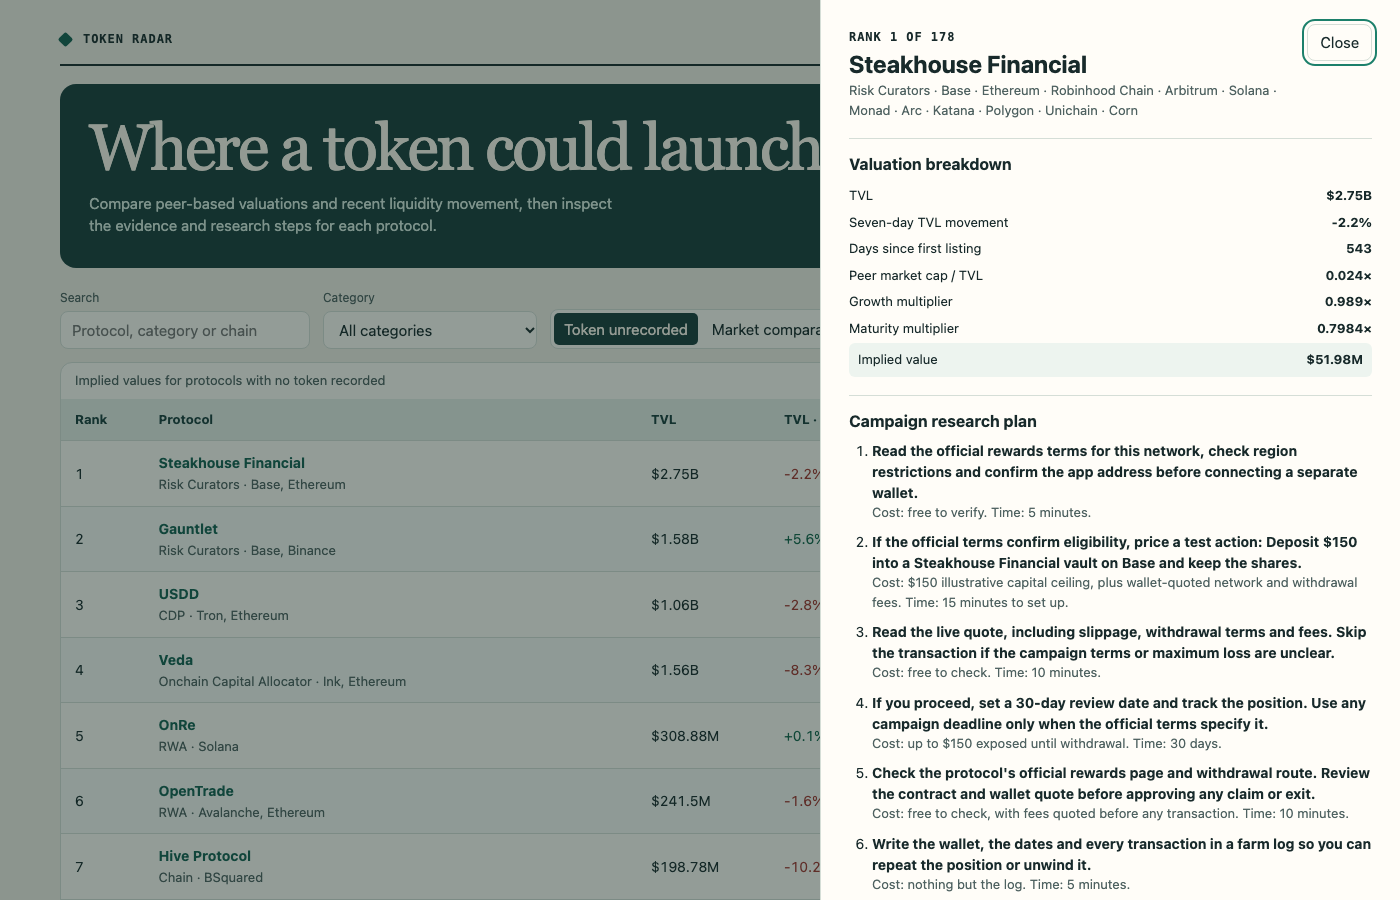
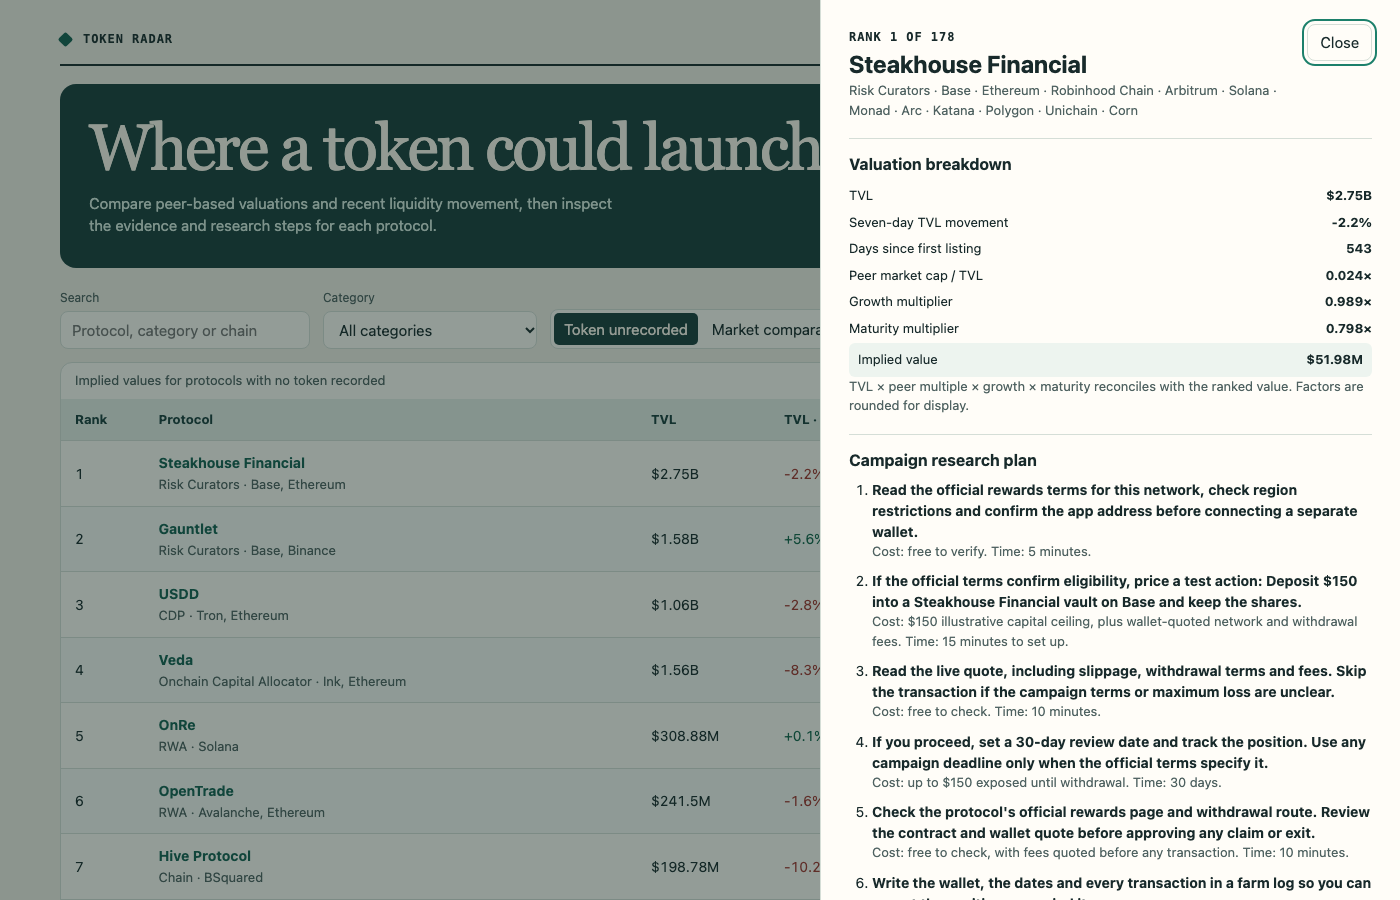
Expose and verify full precision valuation factors

Changed region(s): [[0.6143, 0.4044, 0.9829, 0.9956], [0.9521, 0.3422, 0.9829, 0.3733]]

diff --git a/dashboard/app.js b/dashboard/app.js
@@ -175,16 +175,20 @@ function openDetail(row) {
     stat('Seven-day TVL movement', growth(row.change_7d)),
     stat('Days since first listing', row.age_days ?? 'Unavailable'),
     stat('Peer market cap / TVL', `${row.peer_multiple.toFixed(3)}×`),
-    stat('Growth multiplier', `${row.growth_multiplier}×`),
-    stat('Maturity multiplier', `${row.maturity_multiplier}×`),
+    stat('Growth multiplier', `${row.growth_multiplier.toFixed(3)}×`),
+    stat('Maturity multiplier', `${row.maturity_multiplier.toFixed(3)}×`),
     stat('Implied value', money(row.implied_value_usd)));
+  const recomputedValue = Math.max(1, Math.round(row.tvl_usd * row.peer_multiple * row.growth_multiplier * row.maturity_multiplier));
+  const reconciliation = node('p', recomputedValue === row.implied_value_usd
+    ? 'TVL × peer multiple × growth × maturity reconciles with the ranked value. Factors are rounded for display.'
+    : 'The valuation factors do not reconcile with the ranked value.', 'sub');
   const plan = node('ol', null, 'steps');
   for (const step of row.farm_steps) {
     const cut = step.indexOf(' Cost: ');
     plan.append(group('li', null, node('b', cut < 0 ? step : step.slice(0, cut)), node('div', cut < 0 ? '' : step.slice(cut + 1), 'sub')));
   }
   detail.replaceChildren(top,
-    group('section', 'detail-section', node('h3', 'Valuation breakdown'), equation),
+    group('section', 'detail-section', node('h3', 'Valuation breakdown'), equation, reconciliation),
     group('section', 'detail-section', node('h3', 'Campaign research plan'), plan));
   if (!detail.open) detail.showModal();
 }

diff --git a/lib/model.ts b/lib/model.ts
@@ -351,15 +351,14 @@ export function buildBoard(snapshot: Snapshot, model: ModelConstants = MODEL): B
     model: {
       base_multiple: s.multiple,
       growth_pct: s.growthPct,
-      growth_multiplier: round4(s.growthMult),
-      maturity_multiplier: round4(s.maturityMult),
+      growth_multiplier: s.growthMult,
+      maturity_multiplier: s.maturityMult,
       age_days: s.age,
     },
     farm_steps: farmSteps(s.p, s.age).map(stepText),
   }));
 }
 
-const round4 = (n: number): number => Math.round(n * 1e4) / 1e4;
 
 /** A step as one string: its action, then its cost and time, within the gate's 20..600 characters. */
 export function stepText(step: FarmStep): string {
